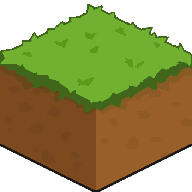
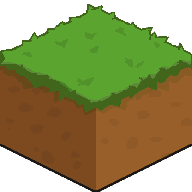
Updating the game textures WIP.

diff --git a/core/src/com/gamegroup/farmstedfortress/com/farmsteadfortress/render/TileMap.java b/core/src/com/gamegroup/farmstedfortress/com/farmsteadfortress/render/TileMap.java
@@ -38,7 +38,7 @@ public class TileMap {
     private List<PathResult> pathResults;
     private int mapSize;
     private String[][] map;
-    private Texture waterTexture, waterBorder, waterFar, middleTexture, bridgeTexture, pathTextureTop, cropLandTexture, grassTexture, grassYellowTexture, grassBlueTexture, enemySpawnPointTexture, crystalTexture;
+    private Texture waterTexture, waterBorder, waterFar, middleTexture, bridgeTexture, pathTextureTop, cropLandTexture, grassTexture, grassRockTexture, grassYellowTexture, grassBlueTexture, enemySpawnPointTexture, crystalTexture;
     private LinkedList<Tile> baseTiles;
     private LinkedList<Tile> objectTiles;
 
@@ -52,6 +52,8 @@ public class TileMap {
         cropLandTexture = new Texture("tiles/crop_land.png");
         cropLandTexture.setFilter(Texture.TextureFilter.Nearest, Texture.TextureFilter.Nearest);
 
+        grassRockTexture = new Texture("tiles/grass_rock.png");
+        grassRockTexture.setFilter(Texture.TextureFilter.Nearest, Texture.TextureFilter.Nearest);
         grassTexture = new Texture("tiles/grass.png");
         grassTexture.setFilter(Texture.TextureFilter.Nearest, Texture.TextureFilter.Nearest);
         grassYellowTexture = new Texture("tiles/grass_yellowish.png");
@@ -427,19 +429,20 @@ public class TileMap {
                         Texture groundSelectedTexture;
                         Tile.TileType tileType = null;
                         int randomNum = new Random().nextInt(100) + 1;
-                        if (randomNum <= 80) {
+                        if (randomNum <= 42) {
                             groundSelectedTexture = grassTexture;
-                            tileType = Tile.TileType.GRASS;
-                        } else if (randomNum <= 90) {
-                            groundSelectedTexture = grassYellowTexture;
-                            tileType = Tile.TileType.GRASS_YELLOW;
-                        } else if (randomNum <= 95) {
-                            groundSelectedTexture = grassBlueTexture;
-                            tileType = Tile.TileType.GRASS_BLUE;
-                        } else {
-                            groundSelectedTexture = grassTexture;
+                            tileType = Tile.TileType.CLASSIC_GRASS;
+                        } else if (randomNum <= 45) {
+                            groundSelectedTexture = grassRockTexture;
                             tileType = Tile.TileType.ROCK;
+                        } else if (randomNum <= 80) {
+                            groundSelectedTexture = grassYellowTexture;
+                            tileType = Tile.TileType.MEADOW_GRASS;
+                        } else {
+                            groundSelectedTexture = grassBlueTexture;
+                            tileType = Tile.TileType.EVERGREEN_GRASS;
                         }
+
                         baseTiles.add(new Tile(groundSelectedTexture, new Vector2(row, col), new Vector2(x, y), tileType));
                         break;
                     case WATER:
@@ -467,12 +470,10 @@ public class TileMap {
      * Randomly places objects on crop land tiles.
      */
     private void fillMapWithObjects() {
-
-
         Random random = new Random();
         for (Tile baseTile : baseTiles) {
             Plant plant = PlantFactory.createPlant(Plant.PlantType.FERN, baseTile, null, null);
-            if (baseTile.getTileType().equals(Tile.TileType.GRASS) || baseTile.getTileType().equals(Tile.TileType.GRASS_BLUE) || baseTile.getTileType().equals(Tile.TileType.GRASS_YELLOW)) {
+            if (baseTile.getTileType().equals(Tile.TileType.CLASSIC_GRASS) || baseTile.getTileType().equals(Tile.TileType.EVERGREEN_GRASS) || baseTile.getTileType().equals(Tile.TileType.MEADOW_GRASS)) {
                 int randomNumber = random.nextInt(10);
                 if (randomNumber < 1) {
                     baseTile.setPlant(plant);

diff --git a/core/src/com/gamegroup/farmstedfortress/com/farmsteadfortress/entities/plants/PlantFactory.java b/core/src/com/gamegroup/farmstedfortress/com/farmsteadfortress/entities/plants/PlantFactory.java
@@ -14,7 +14,7 @@ public class PlantFactory {
     private static TextureAtlas tomatoAtlas = new TextureAtlas(Gdx.files.internal("objects/tomato/TomatoAtlas.atlas"));
     private static TextureAtlas tomatoProjectileAtlas = new TextureAtlas(Gdx.files.internal("objects/tomato/Tomato_projectile.atlas"));
     private static TextureAtlas fernAtlas = new TextureAtlas(Gdx.files.internal("objects/fern/FernAtlas.atlas"));
-    private static TextureAtlas sunflowerAtlas = new TextureAtlas(Gdx.files.internal("objects/cauliflower/CauliflowerAtlas.atlas"));
+    private static TextureAtlas cauliflowerAtlas = new TextureAtlas(Gdx.files.internal("objects/cauliflower/CauliflowerAtlas.atlas"));
     private static Player player;
 
     public static Plant createPlant(Plant.PlantType plantType, Tile tile, Player player, ProjectileManager projectileManager) {
@@ -23,10 +23,7 @@ public class PlantFactory {
                 return createTomatoPlant(tile, projectileManager);
             case FERN:
                 return createFernPlant(tile);
-            case SUNFLOWER:
-                if (player == null) {
-                    throw new IllegalArgumentException("Player instance is required to create a SunflowerPlant");
-                }
+            case CAULIFLOWER:
                 return createCauliflowerPlant(tile, player);
             default:
                 return null;
@@ -58,6 +55,6 @@ public class PlantFactory {
         float timeBetweenPayouts = 3f;
         int payoutAmount = 2;
         Vector2 position = new Vector2(tile.worldPos.x, tile.worldPos.y);
-        return new CauliflowerFlower(growTime, position, health, timeBetweenPayouts, payoutAmount, tile, sunflowerAtlas, player);
+        return new CauliflowerFlower(growTime, position, health, timeBetweenPayouts, payoutAmount, tile, cauliflowerAtlas, player);
     }
 }

diff --git a/core/src/com/gamegroup/farmstedfortress/com/farmsteadfortress/entities/plants/types/FernPlant.java b/core/src/com/gamegroup/farmstedfortress/com/farmsteadfortress/entities/plants/types/FernPlant.java
@@ -1,6 +1,5 @@
 package com.farmsteadfortress.entities.plants.types;
 
-import com.badlogic.gdx.graphics.g2d.SpriteBatch;
 import com.badlogic.gdx.graphics.g2d.TextureAtlas;
 import com.badlogic.gdx.graphics.g2d.TextureRegion;
 import com.badlogic.gdx.math.Vector2;
@@ -8,8 +7,6 @@ import com.farmsteadfortress.entities.Player;
 import com.farmsteadfortress.entities.enemies.Enemy;
 import com.farmsteadfortress.entities.plants.Plant;
 import com.farmsteadfortress.render.Tile;
-
-import java.util.List;
 
 public class FernPlant extends Plant {
     private TextureAtlas atlas;
@@ -23,13 +20,13 @@ public class FernPlant extends Plant {
         this.reward = reward;
 
         switch(tile.getTileType()) {
-            case GRASS:
+            case CLASSIC_GRASS:
                 fernType = "fern_one";
                 break;
-            case GRASS_YELLOW:
+            case MEADOW_GRASS:
                 fernType = "fern_two";
                 break;
-            case GRASS_BLUE:
+            case EVERGREEN_GRASS:
                 fernType = "fern_three";
                 break;
             default:
@@ -38,7 +35,6 @@ public class FernPlant extends Plant {
 
         initialiseTextures();
         highlightedTexture = atlas.findRegion(fernType + "_highlight");
-
         currentStage = GrowthStage.SEEDLING;
     }
 

diff --git a/core/src/com/gamegroup/farmstedfortress/com/farmsteadfortress/render/Tile.java b/core/src/com/gamegroup/farmstedfortress/com/farmsteadfortress/render/Tile.java
@@ -19,7 +19,7 @@ public class Tile {
      */
     public enum TileType {
         CROP_LAND,
-        GRASS,
+        CLASSIC_GRASS,
         MUSHROOM,
         ROCK,
         ROCK_TWO,
@@ -28,19 +28,20 @@ public class Tile {
         BRIDGE,
         PATH,
         CENTER,
-        GRASS_YELLOW,
-        GRASS_BLUE, SPAWN_POINT
+        MEADOW_GRASS,
+        EVERGREEN_GRASS,
+        SPAWN_POINT
     }
 
     private static final TileType[] INTRACTABLE_TILES = {
             TileType.CROP_LAND,
-            TileType.GRASS,
+            TileType.CLASSIC_GRASS,
             TileType.MUSHROOM,
             TileType.ROCK,
             TileType.ROCK_TWO,
             TileType.OBJECT_TILE,
-            TileType.GRASS_BLUE,
-            TileType.GRASS_YELLOW
+            TileType.EVERGREEN_GRASS,
+            TileType.MEADOW_GRASS
     };
 
     private Texture tileTexture;

diff --git a/core/src/com/gamegroup/farmstedfortress/com/farmsteadfortress/items/seeds/CauliflowerSeed.java b/core/src/com/gamegroup/farmstedfortress/com/farmsteadfortress/items/seeds/CauliflowerSeed.java
@@ -6,6 +6,6 @@ import com.farmsteadfortress.entities.plants.Plant;
 
 public class CauliflowerSeed extends Seed {
     public CauliflowerSeed() {
-        super(ItemType.SEED, "Sunflower Seed", 5, new Texture(Gdx.files.internal("gui/cauliflower-shop.png")), new Texture(Gdx.files.internal("gui/hotbar-cauliflower.png")), 10, Plant.PlantType.SUNFLOWER);
+        super(ItemType.SEED, "Cauliflower Seed", 5, new Texture(Gdx.files.internal("gui/cauliflower-shop.png")), new Texture(Gdx.files.internal("gui/hotbar-cauliflower.png")), 10, Plant.PlantType.CAULIFLOWER);
     }
 }

diff --git a/core/src/com/gamegroup/farmstedfortress/com/farmsteadfortress/entities/plants/Plant.java b/core/src/com/gamegroup/farmstedfortress/com/farmsteadfortress/entities/plants/Plant.java
@@ -95,7 +95,8 @@ public abstract class Plant {
 
     public enum PlantType {
         TOMATO,
-        SUNFLOWER, FERN
+        CAULIFLOWER,
+        FERN
     }
 
     protected abstract void initialiseTextures();
